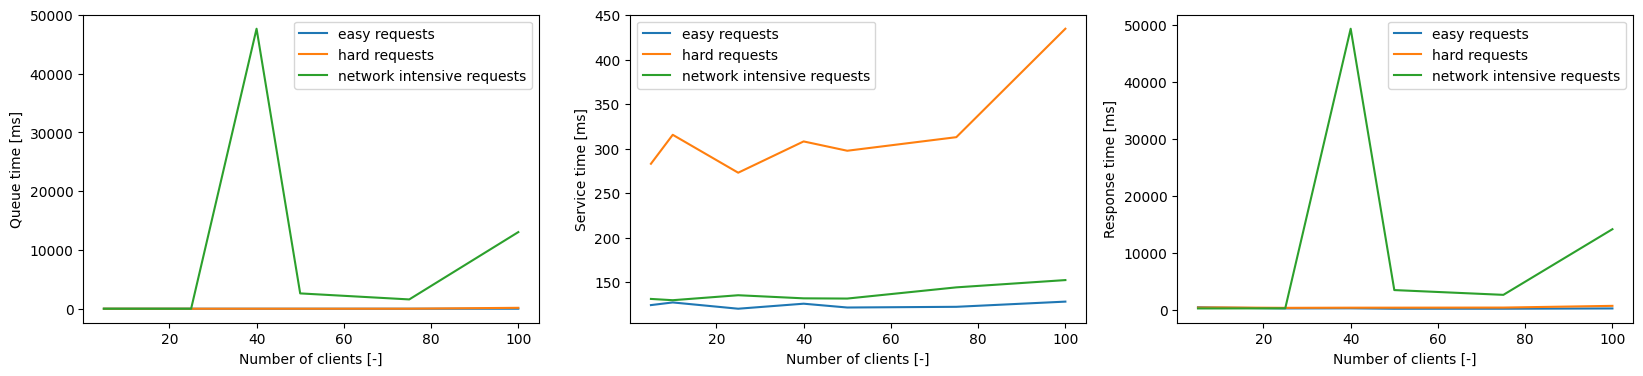
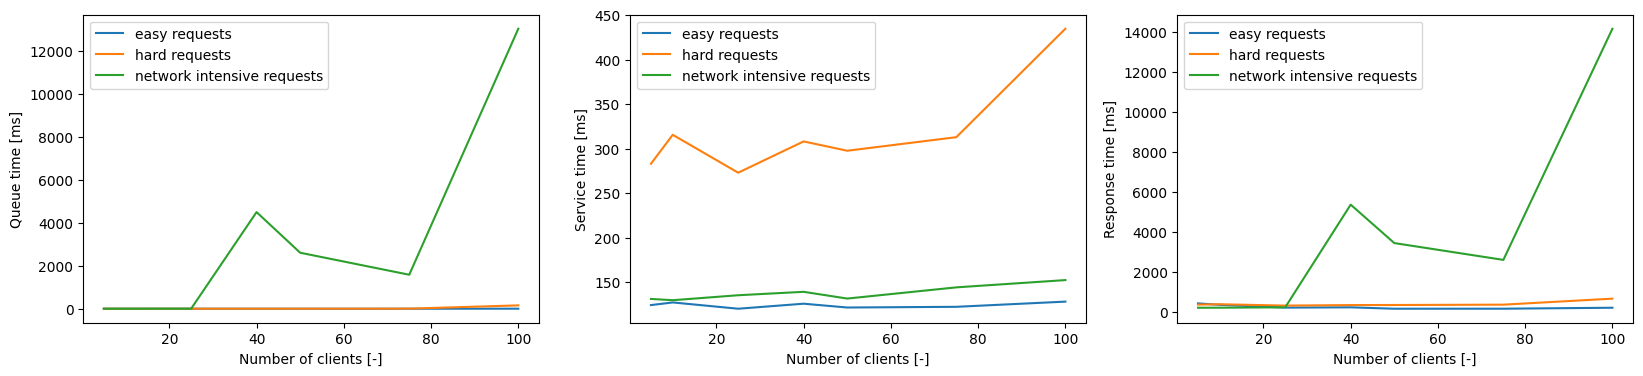
plots corrected

diff --git a/measures/measures_constants.py b/measures/measures_constants.py
@@ -22,12 +22,6 @@ n_threads = [6, 2, 4, 8, 12, 16]
 # input files (txt and path will be added), will always run all inputs
 input_files = ["easy-requests", "hard-requests", "network-intensive-requests"]
 
-# re-run
-n_clients = [40]
-delays = [10000]
-n_threads = [6]
-input_files = ["network-intensive-requests"]
-
 # code variables
 hostname = "192.168.1.56"
 port     = 10069
